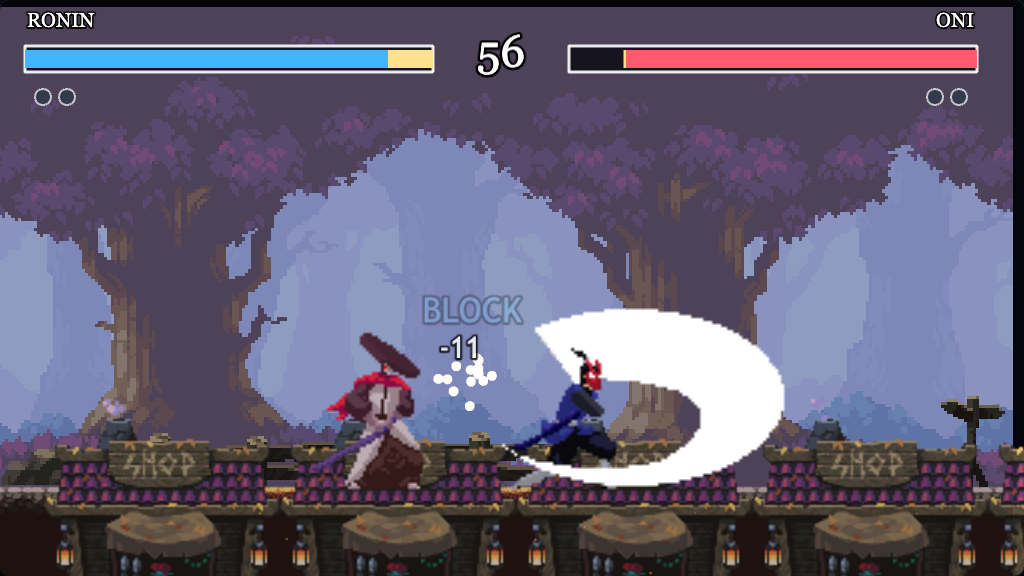
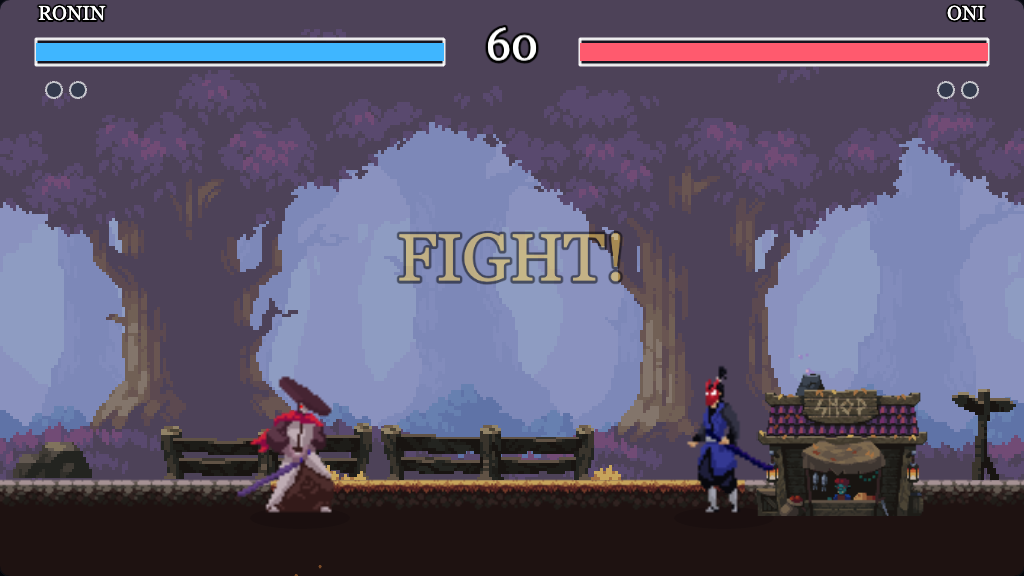
rework

diff --git a/src/scenes/FightScene.ts b/src/scenes/FightScene.ts
@@ -47,6 +47,8 @@ export class FightScene extends Phaser.Scene {
 
   private sparks!: Phaser.GameObjects.Particles.ParticleEmitter;
   private dust!: Phaser.GameObjects.Particles.ParticleEmitter;
+  private p1Shadow!: Phaser.GameObjects.Ellipse;
+  private p2Shadow!: Phaser.GameObjects.Ellipse;
 
   private roundState: RoundState = 'intro';
   private koActive = false;
@@ -85,7 +87,8 @@ export class FightScene extends Phaser.Scene {
   private buildArena(): void {
     const bg = this.add.image(GAME_WIDTH / 2, GAME_HEIGHT / 2, 'background');
     bg.setDisplaySize(GAME_WIDTH, GAME_HEIGHT).setDepth(0);
-    this.add.image(GAME_WIDTH / 2 + 250, GAME_HEIGHT - 96, 'shop').setScale(2).setDepth(1).setAlpha(0.95);
+    // A single animated shop, grounded on the dirt path as a right-side set piece.
+    this.add.sprite(842, FLOOR_Y + 4, 'shop').setOrigin(0.5, 1).setScale(1.45).setDepth(1).play('shop-anim');
     // Mood overlay for contrast behind the HUD/fighters.
     this.add.rectangle(GAME_WIDTH / 2, GAME_HEIGHT / 2, GAME_WIDTH, GAME_HEIGHT, 0x05060c, 0.22).setDepth(2);
 
@@ -135,6 +138,11 @@ export class FightScene extends Phaser.Scene {
     this.physics.add.collider(this.p1, ground);
     this.physics.add.collider(this.p2, ground);
     this.physics.add.collider(this.p1, this.p2);
+
+    // Soft drop-shadows so each fighter reads as planted on the ground (they
+    // shrink/fade as a fighter leaves the floor — see updateShadows).
+    this.p1Shadow = this.add.ellipse(this.p1.x, FLOOR_Y + 6, 100, 22, 0x000000, 0.38).setDepth(8);
+    this.p2Shadow = this.add.ellipse(this.p2.x, FLOOR_Y + 6, 100, 22, 0x000000, 0.38).setDepth(8);
 
     // Kick up dust where a fighter lands. (this.dust is created in buildParticles,
     // which runs before any landing can occur.)
@@ -355,6 +363,7 @@ export class FightScene extends Phaser.Scene {
       return;
     }
 
+    this.updateShadows();
     if (this.roundState !== 'fighting') return;
 
     const dt = delta / 1000;
@@ -364,6 +373,20 @@ export class FightScene extends Phaser.Scene {
 
     this.resolveHits(this.p1, this.p2);
     this.resolveHits(this.p2, this.p1);
+  }
+
+  /** Keep each shadow under its fighter, shrinking + fading as they jump. */
+  private updateShadows(): void {
+    const pairs: [Phaser.GameObjects.Ellipse, Fighter][] = [
+      [this.p1Shadow, this.p1],
+      [this.p2Shadow, this.p2],
+    ];
+    for (const [shadow, fighter] of pairs) {
+      const bottom = (fighter.body as Phaser.Physics.Arcade.Body).bottom;
+      const k = Phaser.Math.Clamp(1 - Math.max(0, FLOOR_Y - bottom) / 340, 0.4, 1);
+      shadow.x = fighter.x;
+      shadow.setScale(k, k).setAlpha(0.38 * k).setVisible(fighter.visible);
+    }
   }
 
   private resolveHits(attacker: Fighter, defender: Fighter): void {

diff --git a/src/scenes/MenuScene.ts b/src/scenes/MenuScene.ts
@@ -1,5 +1,5 @@
 import Phaser from 'phaser';
-import { GAME_HEIGHT, GAME_WIDTH, DIFFICULTIES } from '../config/constants';
+import { FLOOR_Y, GAME_HEIGHT, GAME_WIDTH, DIFFICULTIES } from '../config/constants';
 import type { GameMode } from '../core/types';
 import { sound } from '../audio/SoundManager';
 
@@ -16,9 +16,13 @@ export class MenuScene extends Phaser.Scene {
   create(): void {
     this.buildBackdrop();
 
-    // Fighter previews squaring off.
-    this.add.sprite(250, 372, 'ronin-idle').setScale(2.5).play('ronin-idle');
-    this.add.sprite(GAME_WIDTH - 250, 372, 'oni-idle').setScale(2.5).setFlipX(true).play('oni-idle');
+    // Fighter previews squaring off, planted on the dirt path.
+    const previewY = FLOOR_Y - 55; // feet land on FLOOR_Y at scale 2.5
+    this.add.ellipse(250, FLOOR_Y + 3, 92, 20, 0x000000, 0.3);
+    this.add.ellipse(GAME_WIDTH - 250, FLOOR_Y + 3, 92, 20, 0x000000, 0.3);
+    // Ronin art faces right, Oni art faces left → both already face centre.
+    this.add.sprite(250, previewY, 'ronin-idle').setScale(2.5).play('ronin-idle');
+    this.add.sprite(GAME_WIDTH - 250, previewY, 'oni-idle').setScale(2.5).play('oni-idle');
 
     // Title.
     const title = this.add
@@ -102,7 +106,12 @@ export class MenuScene extends Phaser.Scene {
   private buildBackdrop(): void {
     const bg = this.add.image(GAME_WIDTH / 2, GAME_HEIGHT / 2, 'background');
     bg.setDisplaySize(GAME_WIDTH, GAME_HEIGHT);
-    this.add.image(GAME_WIDTH / 2 + 250, GAME_HEIGHT - 128, 'shop').setScale(2).setAlpha(0.9);
+    this.add
+      .sprite(GAME_WIDTH / 2 + 250, FLOOR_Y + 4, 'shop')
+      .setOrigin(0.5, 1)
+      .setScale(1.6)
+      .setAlpha(0.95)
+      .play('shop-anim');
     this.add.rectangle(GAME_WIDTH / 2, GAME_HEIGHT / 2, GAME_WIDTH, GAME_HEIGHT, 0x05060c, 0.55);
   }
 

diff --git a/src/scenes/PreloadScene.ts b/src/scenes/PreloadScene.ts
@@ -24,7 +24,9 @@ export class PreloadScene extends Phaser.Scene {
 
     this.load.setPath(`${import.meta.env.BASE_URL}assets`);
     this.load.image('background', 'background/background.png');
-    this.load.image('shop', 'background/shop.png');
+    // shop.png is a 6-frame animation strip (708×128 → 118px frames), not a
+    // single image. Load it as a sheet so we can play it as a small prop.
+    this.load.spritesheet('shop', 'background/shop.png', { frameWidth: 118, frameHeight: 128 });
 
     for (const char of CHARACTERS) {
       for (const animName of Object.keys(SHEET_FILES) as (keyof CharacterConfig['anims'])[]) {
@@ -48,6 +50,13 @@ export class PreloadScene extends Phaser.Scene {
         });
       });
     }
+
+    this.anims.create({
+      key: 'shop-anim',
+      frames: this.anims.generateFrameNumbers('shop', { start: 0, end: 5 }),
+      frameRate: 4,
+      repeat: -1,
+    });
 
     this.makeParticleTextures();
     this.scene.start('MenuScene');

diff --git a/src/config/characters.ts b/src/config/characters.ts
@@ -17,6 +17,10 @@ export interface CharacterConfig {
   spriteDir: string;
   /** How much to scale the 200×200 source frames in the world. */
   scale: number;
+  /** Direction the source art faces by default (1 = right, -1 = left). The
+   *  sprite is mirrored only when a fighter needs to face the other way, so
+   *  sheets drawn facing opposite directions both face their opponent. */
+  artFacing: 1 | -1;
   /** Physics/hurt body, in source-frame pixels (before scale). Decoupled from
    *  the art so the body stays stable even when attack frames extend the art. */
   body: { width: number; height: number; offsetX: number; offsetY: number };
@@ -59,7 +63,8 @@ export const CHARACTERS: CharacterConfig[] = [
     tagline: 'The wandering blade',
     themeColor: 0x3fb6ff,
     spriteDir: 'martial-hero-1',
-    scale: 3.0,
+    scale: 2.6,
+    artFacing: 1, // hero-1 art faces right
     // Measured from the idle frame's alpha bbox: char occupies x[76,113] y[70,122].
     body: { width: 37, height: 52, offsetX: 76, offsetY: 70 },
     speed: 300,
@@ -90,7 +95,8 @@ export const CHARACTERS: CharacterConfig[] = [
     tagline: 'The crimson onslaught',
     themeColor: 0xff5a6e,
     spriteDir: 'martial-hero-2',
-    scale: 3.0,
+    scale: 2.6,
+    artFacing: -1, // hero-2 art faces left
     // Measured from the idle frame's alpha bbox: char occupies x[86,119] y[74,128].
     body: { width: 33, height: 54, offsetX: 86, offsetY: 74 },
     speed: 320,

diff --git a/src/config/constants.ts b/src/config/constants.ts
@@ -7,8 +7,9 @@
 // --- World ---
 export const GAME_WIDTH = 1024;
 export const GAME_HEIGHT = 576;
-/** World Y at which a fighter's feet rest (the visual floor of the arena). */
-export const FLOOR_Y = 482;
+/** World Y at which a fighter's feet rest — aligned to the dirt path baked into
+ *  background.png (the walkable surface, not the canvas bottom). */
+export const FLOOR_Y = 512;
 export const WORLD_GRAVITY = 2100;
 /** Horizontal padding that keeps fighters inside the arena. */
 export const ARENA_PADDING = 60;

diff --git a/src/core/Fighter.ts b/src/core/Fighter.ts
@@ -172,7 +172,7 @@ export class Fighter extends Phaser.Physics.Arcade.Sprite {
   private faceOpponent(): void {
     if (!this.opponent) return;
     this.facing = this.opponent.x < this.x ? -1 : 1;
-    this.setFlipX(this.facing === -1);
+    this.setFlipX(this.facing !== this.config.artFacing);
   }
 
   // ---- Attacking --------------------------------------------------------
@@ -292,7 +292,7 @@ export class Fighter extends Phaser.Physics.Arcade.Sprite {
     const restY = FLOOR_Y - (this.config.body.offsetY + this.config.body.height - 100) * this.config.scale;
     this.setPosition(x, restY);
     this.setVelocity(0, 0);
-    this.setFlipX(facing === -1);
+    this.setFlipX(facing !== this.config.artFacing);
     (this.body as Phaser.Physics.Arcade.Body).moves = true;
     this.anims.resume();
     this.playState('idle', true);